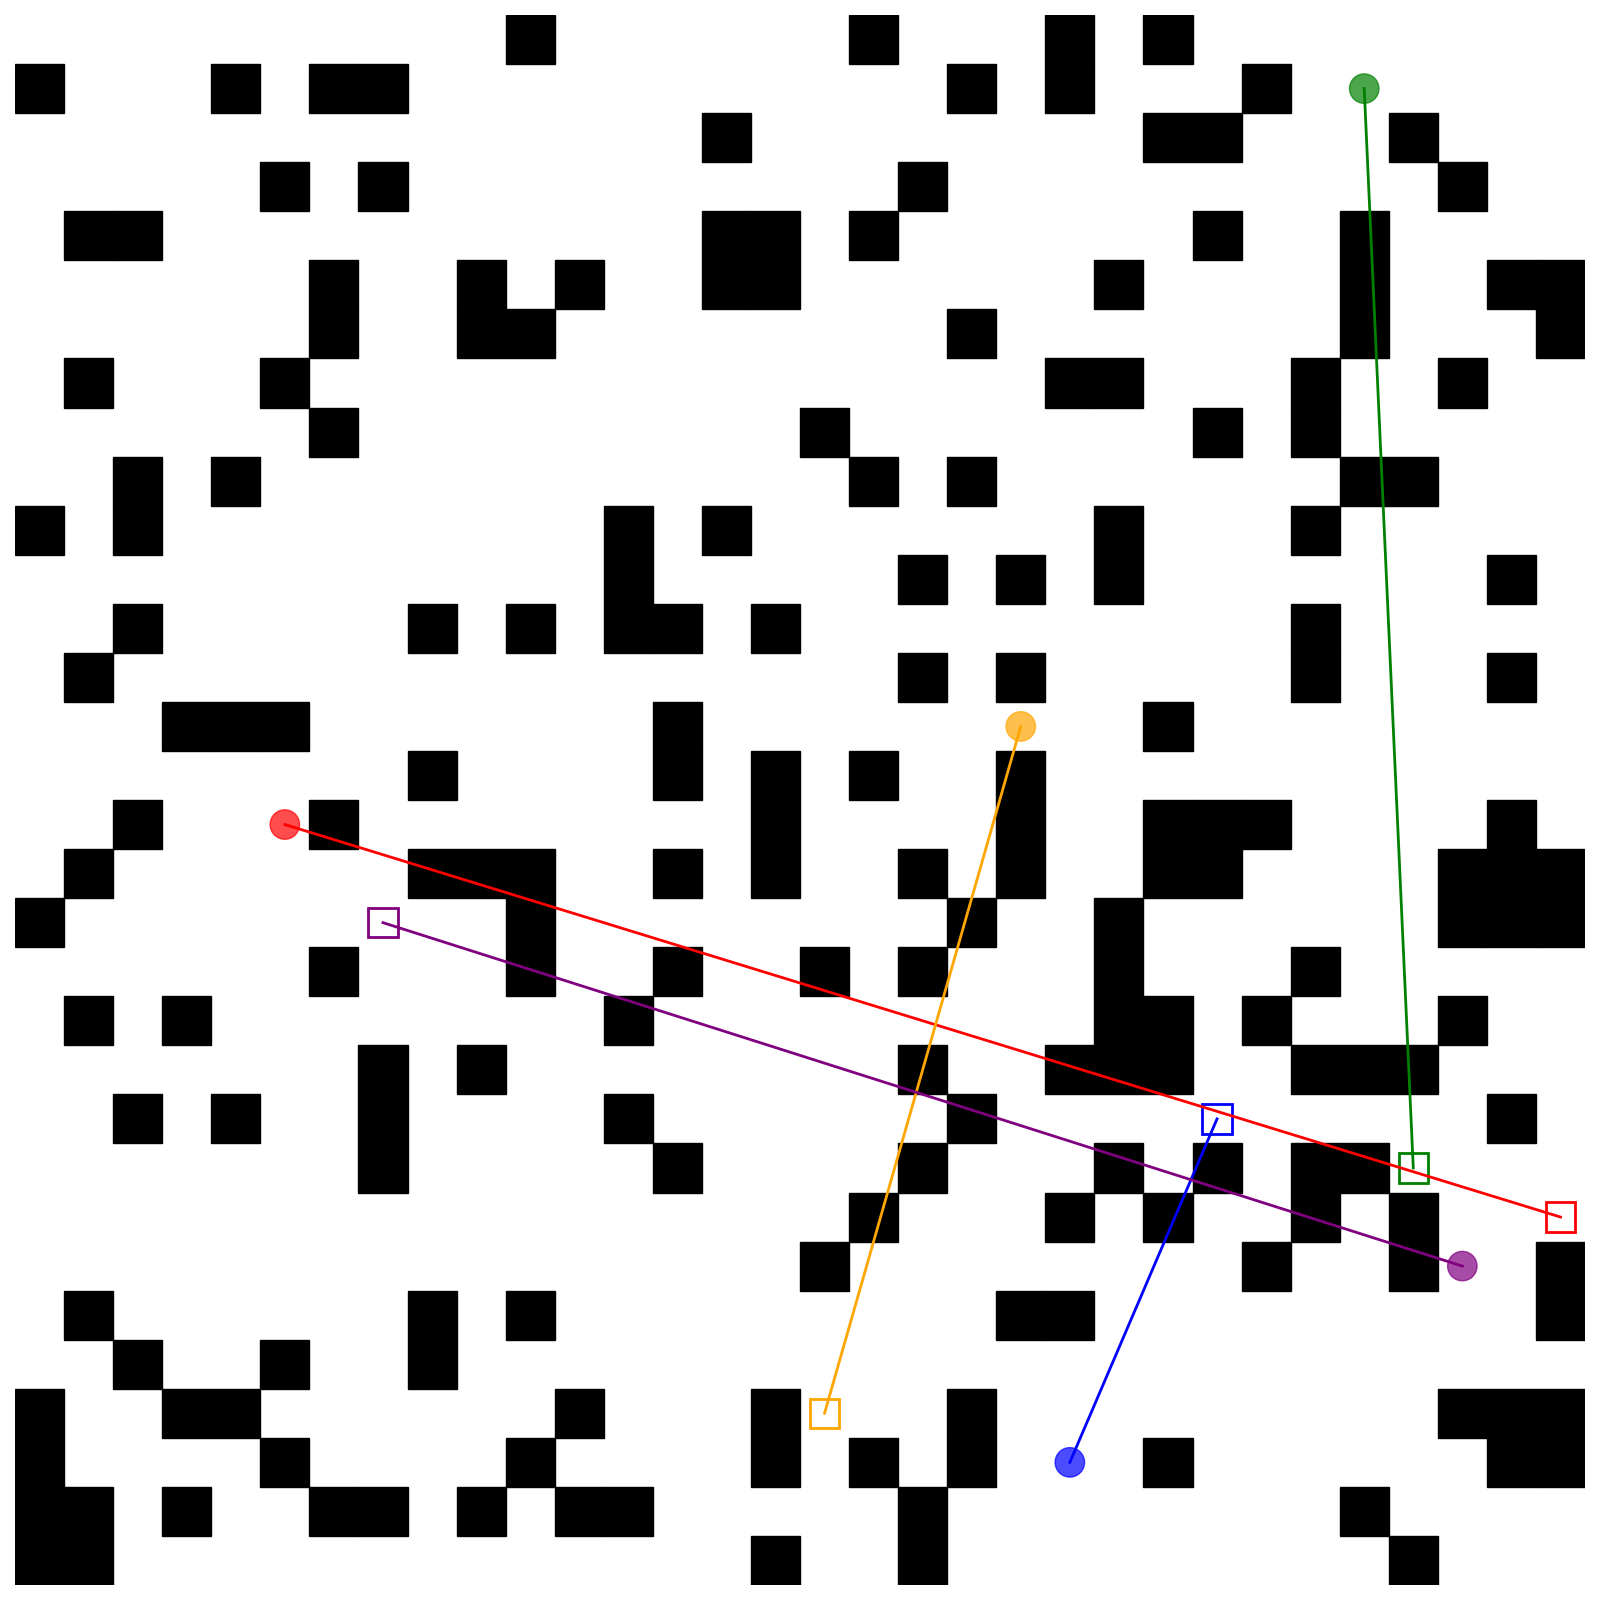
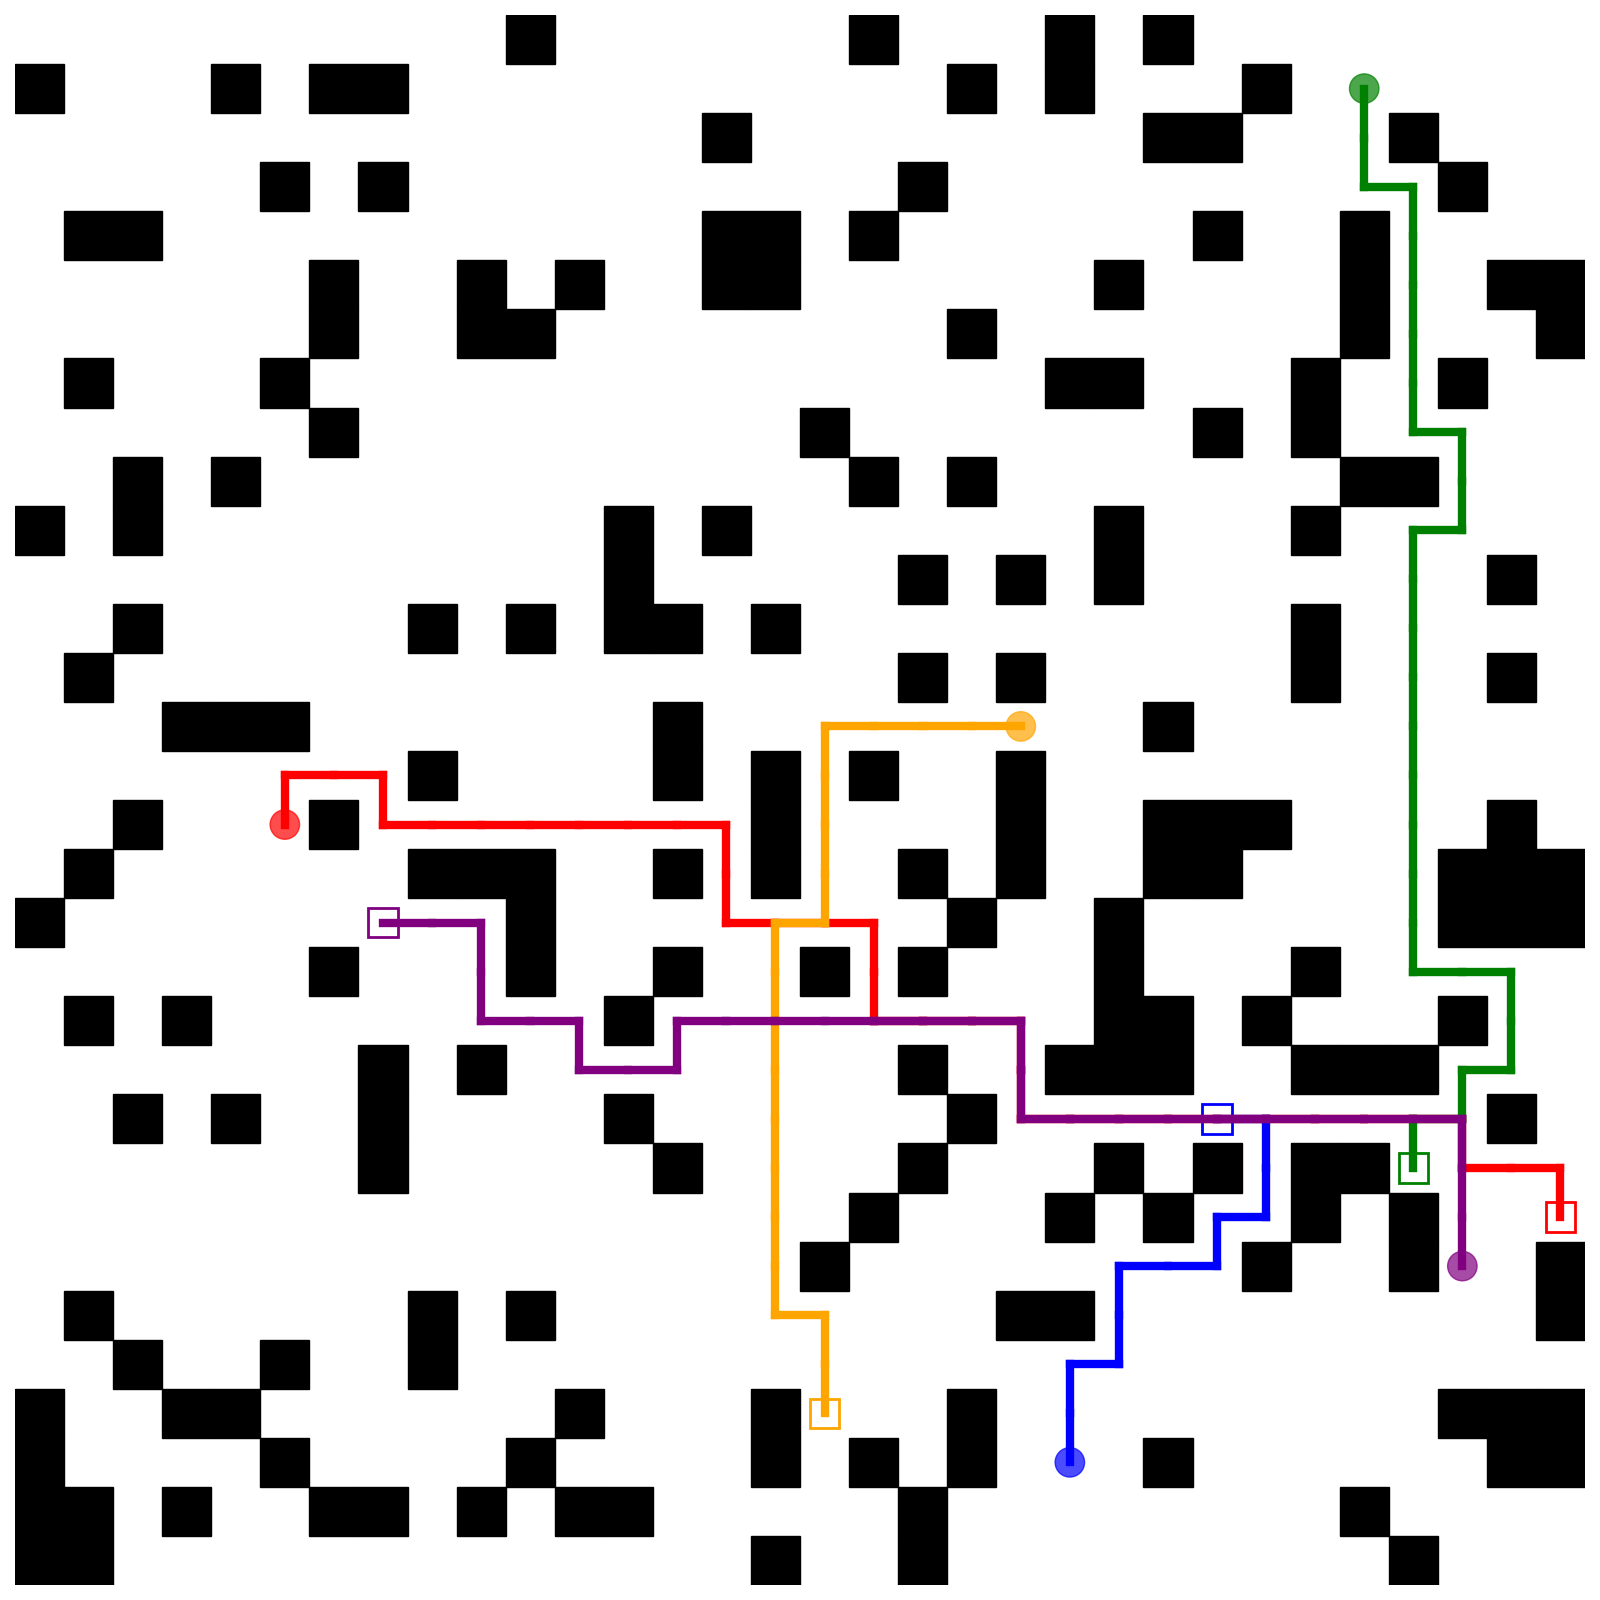
implement missing functions and call a_star

Changed region(s): [[0.1562, 0.0625, 1.0, 0.9062]]

diff --git a/python_reimplementation/algorithms/pp.py b/python_reimplementation/algorithms/pp.py
@@ -1,4 +1,8 @@
 import heapq
+
+def manhattan_distance(a, b):
+    return abs(a[0] - b[0]) + abs(a[1] - b[1])
+
 class PrioritizedPlanningSolver:    
     def __init__(self, map_data, starts, goals):
         self.map = map_data
@@ -6,7 +10,7 @@ class PrioritizedPlanningSolver:
         self.goals = goals
 
     def plan_paths(self):
-        return [[start, goal] for start, goal in zip(self.starts, self.goals)]
+        return [self.a_star(start, goal, None) for start, goal in zip(self.starts, self.goals)]
     
     def a_star(self, start, goal, constraints):
         open_list = []

diff --git a/python_reimplementation/visualize.py b/python_reimplementation/visualize.py
@@ -20,7 +20,7 @@ def plot_paths(map_data, starts, goals, paths, output_file="results/paths_visual
         for j in range(len(path) - 1):
             x1, y1 = path[j]
             x2, y2 = path[j + 1]
-            ax.plot([y1 + 0.5, y2 + 0.5], [rows - x1 - 0.5, rows - x2 - 0.5], color=color, linewidth=2)
+            ax.plot([y1 + 0.5, y2 + 0.5], [rows - x1 - 0.5, rows - x2 - 0.5], color=color, linewidth=6)
 
         # Marca início e fim
         sx, sy = path[0]

diff --git a/python_reimplementation/main.py b/python_reimplementation/main.py
@@ -1,6 +1,5 @@
 from utils.parser import read_map_file, read_scen_file
 from algorithms.pp import PrioritizedPlanningSolver
-from algorithms.pp import PrioritizedPlanningSolver
 from visualize import plot_paths  
 
 import os
